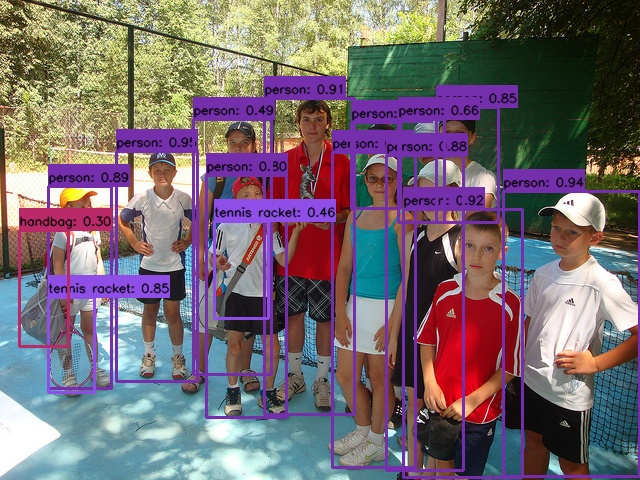
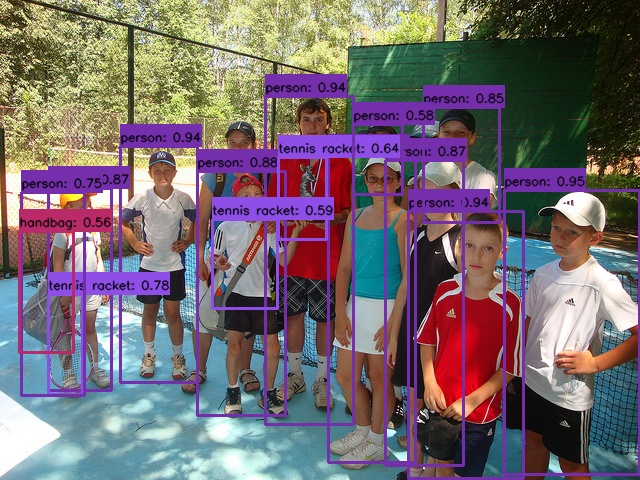
update

Changed region(s): [[0.0312, 0.125, 1.0, 1.0]]

diff --git a/utils/pre_process.py b/utils/pre_process.py
@@ -5,11 +5,9 @@ import cv2
 
 
 class PreProcessor(object):
-    def __init__(self, img_size, pixel_mean=(123.675, 116.28, 103.53), pixel_std=(58.395, 57.12, 57.375)):
+    def __init__(self, img_size):
         self.img_size = img_size
         self.input_size = [img_size, img_size]
-        self.pixel_mean = pixel_mean
-        self.pixel_std = pixel_std
 
 
     def __call__(self, image, swap=(2, 0, 1)):
@@ -19,9 +17,9 @@ class PreProcessor(object):
             formar: color format
         """
         if len(image.shape) == 3:
-            padded_img = np.zeros((self.input_size[0], self.input_size[1], 3), np.float32)
+            padded_img = np.ones((self.input_size[0], self.input_size[1], 3), np.float32) * 114.
         else:
-            padded_img = np.zeros(self.input_size, np.float32)
+            padded_img = np.ones(self.input_size, np.float32) * 114.
         # resize
         orig_h, orig_w = image.shape[:2]
         r = min(self.input_size[0] / orig_h, self.input_size[1] / orig_w)
@@ -30,12 +28,6 @@ class PreProcessor(object):
             resized_img = cv2.resize(image, resize_size, interpolation=cv2.INTER_LINEAR)
         else:
             resized_img = image
-
-        # to RGB
-        resized_img = resized_img[..., (2, 1, 0)]
-
-        # normalize
-        resized_img = (resized_img - self.pixel_mean) / self.pixel_std
 
         # pad
         padded_img[:resize_size[1], :resize_size[0]] = resized_img

diff --git a/openvino_inference.py b/openvino_inference.py
@@ -22,13 +22,13 @@ from utils.vis_tools import visualize
 
 def parse_args() -> argparse.Namespace:
     parser = argparse.ArgumentParser("openvino inference sample")
-    parser.add_argument("-m", "--model", type=str, default="weights/openvino/xml/yolo_free_large.xml",
+    parser.add_argument("-m", "--model", type=str, default="weights/openvino/xml/yolo_free_tiny/yolo_free_tiny.xml",
                         help="Input your XML model.")
     parser.add_argument("-i", "--image_path", type=str, default='test_image.jpg',
                         help="Path to your input image.")
     parser.add_argument("-o", "--output_dir", type=str, default='results/',
                         help="Path to your output directory.")
-    parser.add_argument("-s", "--score_thr", type=float, default=0.3,
+    parser.add_argument("-s", "--score_thr", type=float, default=0.5,
                         help="Score threshould to filter the result.")
     parser.add_argument('-d', '--device', default='CPU', type=str,
                         help='Optional. Specify the target device to infer on; CPU, GPU, \

diff --git a/README.md b/README.md
@@ -22,8 +22,8 @@ Main results on COCO-val:
 | Model          |  Scale  |    AP    |    AP50    |  ONNX  |  XML  |
 |----------------|---------|----------|------------|--------|-------|
 | FreeYOLO-Nano  |  416    |      |        |  |  |
-| FreeYOLO-Tiny  |  416    |      |        |  |  |
-| FreeYOLO-Large |  640    |   47.1   |   67.4     | [github](https://github.com/yjh0410/FreeYOLO/releases/download/weight/yolo_free_large_opset_11.onnx) |  [github](https://github.com/yjh0410/FreeYOLO/releases/download/weight/yolo_free_large_openvino.zip) |
+| FreeYOLO-Tiny |  416     |   31.1   |   49.4     | [github](https://github.com/yjh0410/FreeYOLO/releases/download/weight/yolo_free_tiny_opset_11.onnx) |  [github](https://github.com/yjh0410/FreeYOLO/releases/download/weight/yolo_free_tiny.zip) |
+| FreeYOLO-Large |  640    |      |        |  |  |
 | FreeYOLO-Huge  |  640    |     |        |  |  |
 
 
